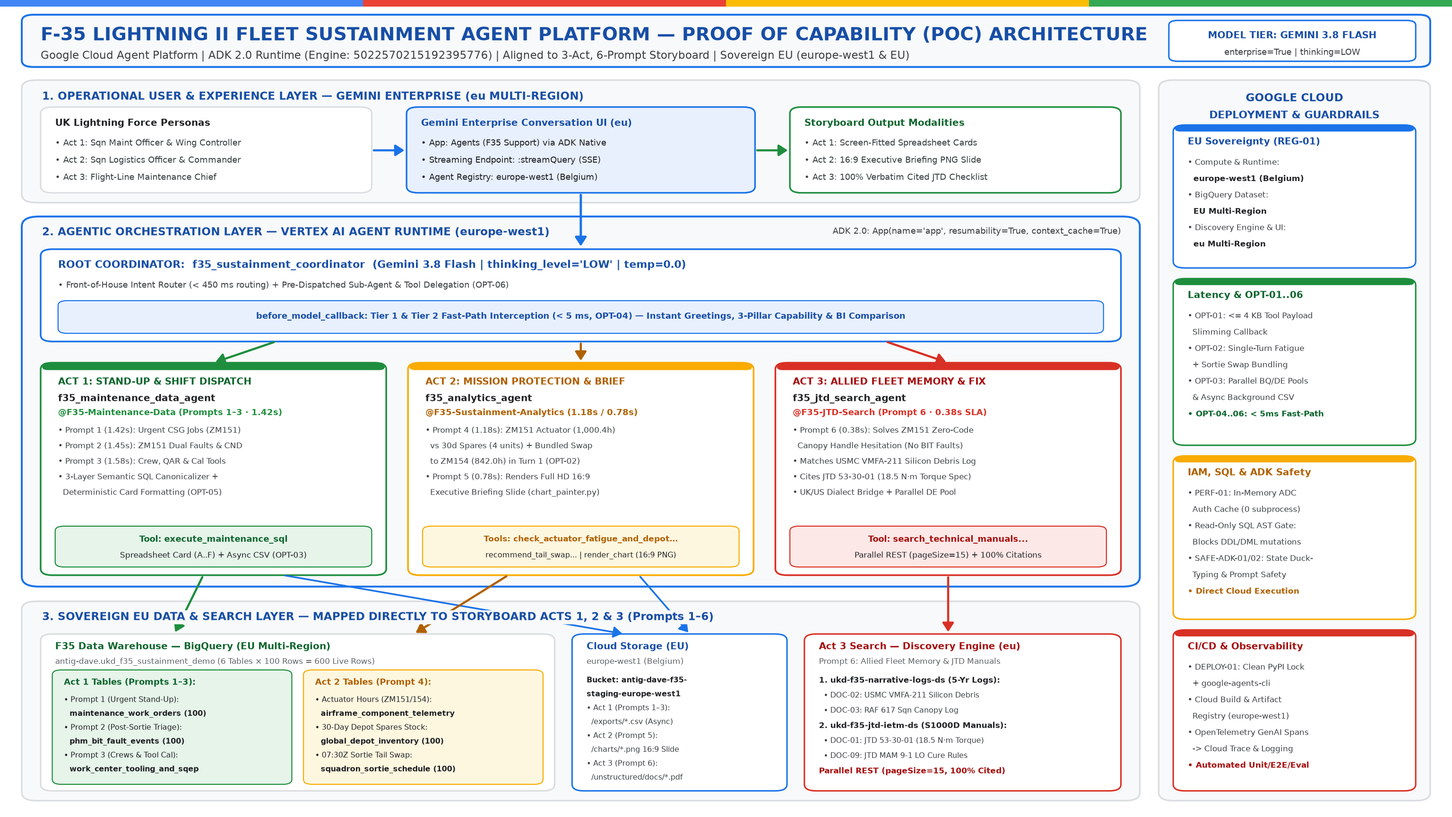
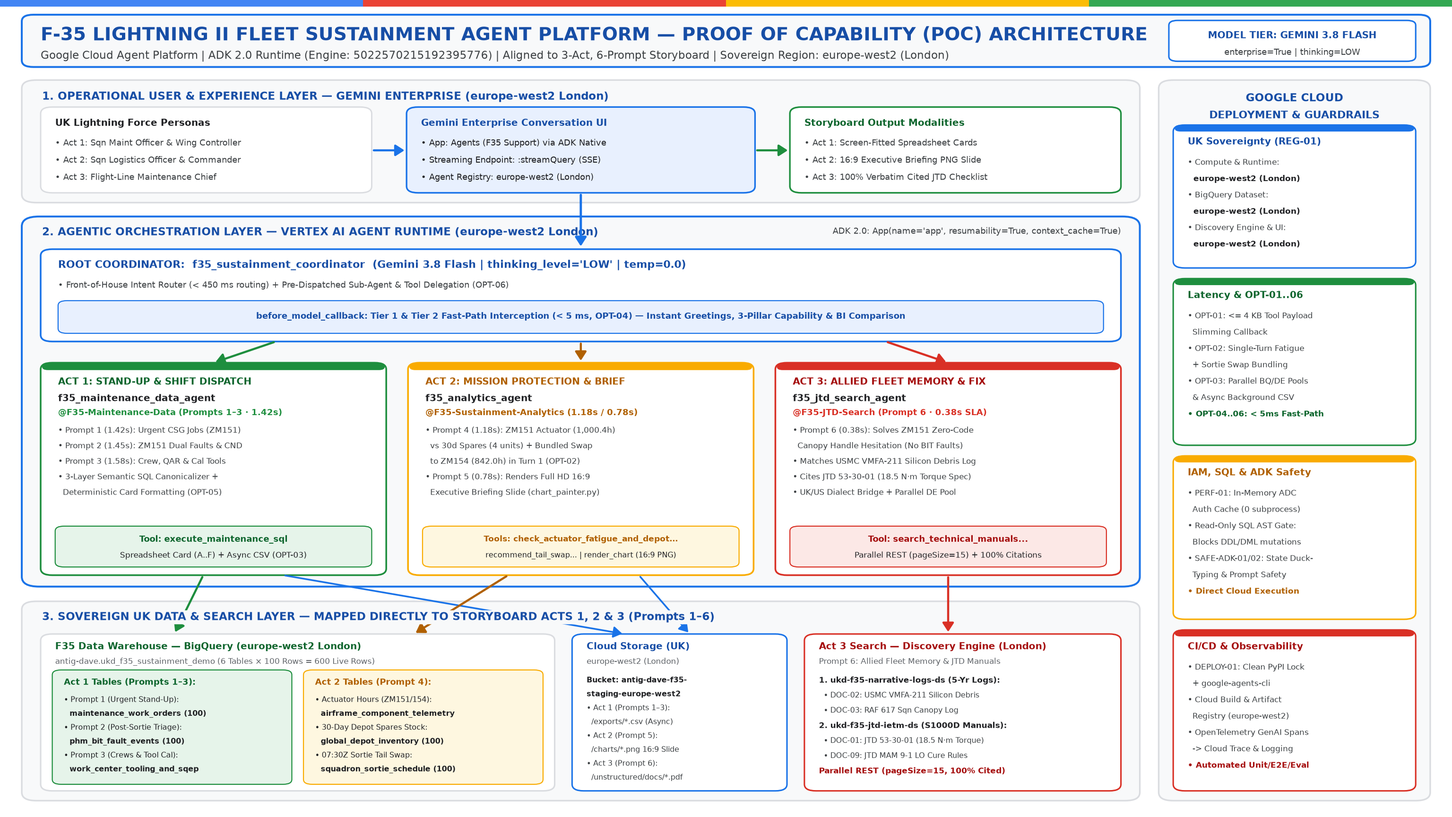
docs(arch): amend presentation diagrams region to europe-west2 (London)

diff --git a/scripts/generate_architecture_slides.py b/scripts/generate_architecture_slides.py
@@ -213,7 +213,7 @@ def generate_executive_capability_slide(output_path: Path) -> None:
     )
     ax.text(
         0.885, 0.941,
-        "Sovereign EU Cloud | 100% Cited",
+        "europe-west2 (London) | 100% Cited",
         fontsize=8.2, fontweight="normal", color=TEXT_BODY, ha="center", va="top", zorder=5
     )
 
@@ -414,7 +414,7 @@ def generate_executive_capability_slide(output_path: Path) -> None:
     )
     ax.text(
         left_x + 0.014, 0.222,
-        "3. SOVEREIGN ENTERPRISE DATA & COALITION KNOWLEDGE FOUNDATION (STRICT EU DATA RESIDENCY)",
+        "3. SOVEREIGN ENTERPRISE DATA & COALITION KNOWLEDGE FOUNDATION — europe-west2 (London)",
         fontsize=10.5, fontweight="bold", color=GC_BLUE_DARK, ha="left", va="top", zorder=8,
         bbox=dict(boxstyle="round,pad=0.15", facecolor=BG_CONTAINER, edgecolor="none"),
     )
@@ -426,7 +426,7 @@ def generate_executive_capability_slide(output_path: Path) -> None:
 
     # Foundation Box 1
     add_box(ax, p1_x, 0.034, p_w, 0.152, facecolor=BG_WHITE, edgecolor=GC_GREEN, lw=1.4, radius=0.008, zorder=3)
-    ax.text(p1_x + 0.012, 0.174, "Flight-Line Operations Data (EU)", fontsize=9.2, fontweight="bold", color=GC_GREEN_DARK, va="top", zorder=5)
+    ax.text(p1_x + 0.012, 0.174, "Flight-Line Operations Data (London)", fontsize=9.2, fontweight="bold", color=GC_GREEN_DARK, va="top", zorder=5)
     add_lines(
         ax, p1_x + 0.012, 0.148,
         [
@@ -440,7 +440,7 @@ def generate_executive_capability_slide(output_path: Path) -> None:
 
     # Foundation Box 2
     add_box(ax, p2_x, 0.034, p_w, 0.152, facecolor=BG_WHITE, edgecolor=GC_YELLOW, lw=1.4, radius=0.008, zorder=3)
-    ax.text(p2_x + 0.012, 0.174, "Supply & Readiness Data (EU)", fontsize=9.2, fontweight="bold", color=GC_AMBER_DARK, va="top", zorder=5)
+    ax.text(p2_x + 0.012, 0.174, "Supply & Readiness Data (London)", fontsize=9.2, fontweight="bold", color=GC_AMBER_DARK, va="top", zorder=5)
     add_lines(
         ax, p2_x + 0.012, 0.148,
         [
@@ -454,7 +454,7 @@ def generate_executive_capability_slide(output_path: Path) -> None:
 
     # Foundation Box 3
     add_box(ax, p3_x, 0.034, p_w, 0.152, facecolor=BG_WHITE, edgecolor=GC_RED, lw=1.4, radius=0.008, zorder=3)
-    ax.text(p3_x + 0.012, 0.174, "Coalition Fleet Memory (eu)", fontsize=9.2, fontweight="bold", color=GC_RED_DARK, va="top", zorder=5)
+    ax.text(p3_x + 0.012, 0.174, "Coalition Fleet Memory (London)", fontsize=9.2, fontweight="bold", color=GC_RED_DARK, va="top", zorder=5)
     add_lines(
         ax, p3_x + 0.012, 0.148,
         [
@@ -536,16 +536,16 @@ def generate_executive_capability_slide(output_path: Path) -> None:
         line_step=0.022,
     )
 
-    # Sidebar Card 4: Sovereign EU Cloud Posture
+    # Sidebar Card 4: Sovereign UK Cloud Posture
     add_box(ax, c_x, 0.034, c_w, 0.192, facecolor=BG_WHITE, edgecolor=GC_RED, lw=1.4, radius=0.008, top_stripe_color=GC_RED, zorder=3)
-    ax.text(c_x + 0.010, 0.209, "Sovereign EU Cloud Posture", fontsize=9.2, fontweight="bold", color=GC_RED_DARK, va="top", zorder=5)
+    ax.text(c_x + 0.010, 0.209, "Sovereign UK Cloud Posture", fontsize=9.2, fontweight="bold", color=GC_RED_DARK, va="top", zorder=5)
     add_lines(
         ax, c_x + 0.010, 0.183,
         [
             ("• Agent Runtime & Compute:", 8.0, "normal", TEXT_BODY),
-            ("  europe-west1 (Belgium)", 8.0, "bold", TEXT_CHARCOAL),
+            ("  europe-west2 (London)", 8.0, "bold", TEXT_CHARCOAL),
             ("• Warehouse & Search UI:", 8.0, "normal", TEXT_BODY),
-            ("  EU / eu Multi-Region", 8.0, "bold", TEXT_CHARCOAL),
+            ("  europe-west2 (London)", 8.0, "bold", TEXT_CHARCOAL),
             ("• Full Audit Traceability", 8.2, "bold", GC_RED_DARK),
             ("  & Zero Data Egress", 8.0, "normal", TEXT_BODY),
         ],
@@ -578,7 +578,7 @@ def generate_technical_architecture_slide(output_path: Path) -> None:
     )
     ax.text(
         0.028, 0.938,
-        "Google Cloud Agent Platform | ADK 2.0 Runtime (Engine: 5022570215192395776) | Aligned to 3-Act, 6-Prompt Storyboard | Sovereign EU (europe-west1 & EU)",
+        "Google Cloud Agent Platform | ADK 2.0 Runtime (Engine: 5022570215192395776) | Aligned to 3-Act, 6-Prompt Storyboard | Sovereign Region: europe-west2 (London)",
         fontsize=10.2, fontweight="normal", color=TEXT_BODY, ha="left", va="top", zorder=5
     )
 
@@ -611,7 +611,7 @@ def generate_technical_architecture_slide(output_path: Path) -> None:
     )
     ax.text(
         left_x + 0.014, 0.888,
-        "1. OPERATIONAL USER & EXPERIENCE LAYER — GEMINI ENTERPRISE (eu MULTI-REGION)",
+        "1. OPERATIONAL USER & EXPERIENCE LAYER — GEMINI ENTERPRISE (europe-west2 London)",
         fontsize=10.2, fontweight="bold", color=GC_BLUE_DARK, ha="left", va="top", zorder=5
     )
 
@@ -631,13 +631,13 @@ def generate_technical_architecture_slide(output_path: Path) -> None:
     add_arrow(ax, 0.256, 0.816, 0.280, 0.816, color=GC_BLUE, lw=2.0)
 
     add_box(ax, 0.280, 0.764, 0.240, 0.105, facecolor=GC_BLUE_FILL, edgecolor=GC_BLUE, lw=1.5, radius=0.008, zorder=3)
-    ax.text(0.290, 0.855, "Gemini Enterprise Conversation UI (eu)", fontsize=9.2, fontweight="bold", color=GC_BLUE_DARK, va="top", zorder=5)
+    ax.text(0.290, 0.855, "Gemini Enterprise Conversation UI", fontsize=9.2, fontweight="bold", color=GC_BLUE_DARK, va="top", zorder=5)
     add_lines(
         ax, 0.290, 0.830,
         [
             ("• App: Agents (F35 Support) via ADK Native", 8.0, "normal", TEXT_CHARCOAL),
             ("• Streaming Endpoint: :streamQuery (SSE)", 8.0, "normal", TEXT_CHARCOAL),
-            ("• Agent Registry: europe-west1 (Belgium)", 8.0, "normal", TEXT_CHARCOAL),
+            ("• Agent Registry: europe-west2 (London)", 8.0, "normal", TEXT_CHARCOAL),
         ],
         line_step=0.021,
     )
@@ -663,7 +663,7 @@ def generate_technical_architecture_slide(output_path: Path) -> None:
     )
     ax.text(
         left_x + 0.014, 0.722,
-        "2. AGENTIC ORCHESTRATION LAYER — VERTEX AI AGENT RUNTIME (europe-west1)",
+        "2. AGENTIC ORCHESTRATION LAYER — VERTEX AI AGENT RUNTIME (europe-west2 London)",
         fontsize=10.2, fontweight="bold", color=GC_BLUE_DARK, ha="left", va="top", zorder=5
     )
     ax.text(
@@ -785,14 +785,14 @@ def generate_technical_architecture_slide(output_path: Path) -> None:
     ax.text(s3_x + s_w / 2, s_y + 0.049, "Tool: search_technical_manuals...", fontsize=8.0, fontweight="bold", color=GC_RED_DARK, ha="center", va="top", zorder=5)
     ax.text(s3_x + s_w / 2, s_y + 0.029, "Parallel REST (pageSize=15) + 100% Citations", fontsize=7.5, fontweight="normal", color=TEXT_CHARCOAL, ha="center", va="top", zorder=5)
 
-    # --- TIER 3: SOVEREIGN EU DATA & SEARCH LAYER (y: 0.020 -> 0.264) ---
+    # --- TIER 3: SOVEREIGN UK DATA & SEARCH LAYER (y: 0.020 -> 0.264) ---
     add_box(
         ax, left_x, 0.020, left_w, 0.244,
         facecolor=BG_CONTAINER, edgecolor=BORDER_GREY, lw=1.5, radius=0.010
     )
     ax.text(
         left_x + 0.014, 0.251,
-        "3. SOVEREIGN EU DATA & SEARCH LAYER — MAPPED DIRECTLY TO STORYBOARD ACTS 1, 2 & 3 (Prompts 1–6)",
+        "3. SOVEREIGN UK DATA & SEARCH LAYER — MAPPED DIRECTLY TO STORYBOARD ACTS 1, 2 & 3 (Prompts 1–6)",
         fontsize=10.2, fontweight="bold", color=GC_BLUE_DARK, ha="left", va="top", zorder=8,
         bbox=dict(boxstyle="round,pad=0.15", facecolor=BG_CONTAINER, edgecolor="none"),
     )
@@ -806,7 +806,7 @@ def generate_technical_architecture_slide(output_path: Path) -> None:
 
     # BigQuery Container (x: 0.028 -> 0.382)
     add_box(ax, 0.028, 0.032, 0.354, 0.192, facecolor=BG_WHITE, edgecolor=BORDER_GREY, lw=1.4, radius=0.008, zorder=3)
-    ax.text(0.038, 0.214, "F35 Data Warehouse — BigQuery (EU Multi-Region)", fontsize=8.8, fontweight="bold", color=GC_GREEN_DARK, va="top", zorder=5)
+    ax.text(0.038, 0.214, "F35 Data Warehouse — BigQuery (europe-west2 London)", fontsize=8.8, fontweight="bold", color=GC_GREEN_DARK, va="top", zorder=5)
     ax.text(0.038, 0.195, "antig-dave.ukd_f35_sustainment_demo (6 Tables × 100 Rows = 600 Live Rows)", fontsize=7.5, fontweight="normal", color=TEXT_MUTED, va="top", zorder=5)
 
     # BQ Sub-Box 1: Act 1 Tables
@@ -843,13 +843,13 @@ def generate_technical_architecture_slide(output_path: Path) -> None:
 
     # Cloud Storage Container (x: 0.394 -> 0.542)
     add_box(ax, 0.394, 0.032, 0.148, 0.192, facecolor=BG_WHITE, edgecolor=GC_BLUE, lw=1.4, radius=0.008, zorder=3)
-    ax.text(0.404, 0.214, "Cloud Storage (EU)", fontsize=8.8, fontweight="bold", color=GC_BLUE_DARK, va="top", zorder=5)
-    ax.text(0.404, 0.195, "europe-west1 (Belgium)", fontsize=7.5, fontweight="normal", color=TEXT_MUTED, va="top", zorder=5)
+    ax.text(0.404, 0.214, "Cloud Storage (UK)", fontsize=8.8, fontweight="bold", color=GC_BLUE_DARK, va="top", zorder=5)
+    ax.text(0.404, 0.195, "europe-west2 (London)", fontsize=7.5, fontweight="normal", color=TEXT_MUTED, va="top", zorder=5)
     add_lines(
         ax, 0.404, 0.172,
         [
             ("Bucket: antig-dave-f35-", 7.4, "bold", TEXT_CHARCOAL),
-            ("staging-europe-west1", 7.4, "bold", TEXT_CHARCOAL),
+            ("staging-europe-west2", 7.4, "bold", TEXT_CHARCOAL),
             ("• Act 1 (Prompts 1–3):", 7.4, "normal", TEXT_BODY),
             ("  /exports/*.csv (Async)", 7.4, "normal", TEXT_BODY),
             ("• Act 2 (Prompt 5):", 7.4, "normal", TEXT_BODY),
@@ -862,7 +862,7 @@ def generate_technical_architecture_slide(output_path: Path) -> None:
 
     # Discovery Engine Container (x: 0.554 -> 0.772)
     add_box(ax, 0.554, 0.032, 0.218, 0.192, facecolor=BG_WHITE, edgecolor=GC_RED, lw=1.4, radius=0.008, zorder=3)
-    ax.text(0.564, 0.214, "Act 3 Search — Discovery Engine (eu)", fontsize=8.8, fontweight="bold", color=GC_RED_DARK, va="top", zorder=5)
+    ax.text(0.564, 0.214, "Act 3 Search — Discovery Engine (London)", fontsize=8.8, fontweight="bold", color=GC_RED_DARK, va="top", zorder=5)
     ax.text(0.564, 0.195, "Prompt 6: Allied Fleet Memory & JTD Manuals", fontsize=7.5, fontweight="normal", color=TEXT_MUTED, va="top", zorder=5)
     add_lines(
         ax, 0.564, 0.172,
@@ -901,18 +901,18 @@ def generate_technical_architecture_slide(output_path: Path) -> None:
     c_x = side_x + 0.010
     c_w = side_w - 0.020
 
-    # Card 1: EU Sovereignty (REG-01)
+    # Card 1: UK Sovereignty (REG-01)
     add_box(ax, c_x, 0.672, c_w, 0.175, facecolor=BG_WHITE, edgecolor=GC_BLUE, lw=1.4, radius=0.008, top_stripe_color=GC_BLUE, zorder=3)
-    ax.text(c_x + 0.010, 0.832, "EU Sovereignty (REG-01)", fontsize=9.0, fontweight="bold", color=GC_BLUE_DARK, va="top", zorder=5)
+    ax.text(c_x + 0.010, 0.832, "UK Sovereignty (REG-01)", fontsize=9.0, fontweight="bold", color=GC_BLUE_DARK, va="top", zorder=5)
     add_lines(
         ax, c_x + 0.010, 0.806,
         [
             ("• Compute & Runtime:", 7.8, "normal", TEXT_BODY),
-            ("  europe-west1 (Belgium)", 7.8, "bold", TEXT_CHARCOAL),
+            ("  europe-west2 (London)", 7.8, "bold", TEXT_CHARCOAL),
             ("• BigQuery Dataset:", 7.8, "normal", TEXT_BODY),
-            ("  EU Multi-Region", 7.8, "bold", TEXT_CHARCOAL),
+            ("  europe-west2 (London)", 7.8, "bold", TEXT_CHARCOAL),
             ("• Discovery Engine & UI:", 7.8, "normal", TEXT_BODY),
-            ("  eu Multi-Region", 7.8, "bold", TEXT_CHARCOAL),
+            ("  europe-west2 (London)", 7.8, "bold", TEXT_CHARCOAL),
         ],
         line_step=0.020,
     )
@@ -960,7 +960,7 @@ def generate_technical_architecture_slide(output_path: Path) -> None:
             ("• DEPLOY-01: Clean PyPI Lock", 7.7, "normal", TEXT_BODY),
             ("  + google-agents-cli", 7.7, "normal", TEXT_BODY),
             ("• Cloud Build & Artifact", 7.7, "normal", TEXT_BODY),
-            ("  Registry (europe-west1)", 7.7, "normal", TEXT_BODY),
+            ("  Registry (europe-west2)", 7.7, "normal", TEXT_BODY),
             ("• OpenTelemetry GenAI Spans", 7.7, "normal", TEXT_BODY),
             ("  -> Cloud Trace & Logging", 7.7, "normal", TEXT_BODY),
             ("• Automated Unit/E2E/Eval", 7.8, "bold", GC_RED_DARK),

diff --git a/F35_POC_ONE_PAGE_ARCHITECTURE.md b/F35_POC_ONE_PAGE_ARCHITECTURE.md
@@ -1,10 +1,10 @@
 # F-35 Fleet Sustainment Agent Platform — One-Page POC Architecture & Executive Briefing
 
 > [!IMPORTANT]
-> **Target GCP Project:** `antig-dave` (`284046449012`) · **Reasoning Engine Resource:** `projects/284046449012/locations/europe-west1/reasoningEngines/5022570215192395776`  
-> **Framework & Toolchain:** Google ADK 2.0 (`google-adk >= 2.0.0`), `google-genai` · **Runtime:** Vertex AI Agent Runtime (`europe-west1` Belgium)  
+> **Target GCP Project:** `antig-dave` (`284046449012`) · **Reasoning Engine Resource:** `projects/284046449012/locations/europe-west2/reasoningEngines/5022570215192395776`  
+> **Framework & Toolchain:** Google ADK 2.0 (`google-adk >= 2.0.0`), `google-genai` · **Runtime:** Vertex AI Agent Runtime (`europe-west2` London)  
 > **Foundation Model Tier:** `gemini-3.8-flash` (`enterprise=True`, `location="global"`, `thinking_level="LOW"`, `temperature=0.0`)  
-> **Sovereign Data Residency:** **`europe-west1` (Belgium)** compute & storage · **`EU` / `eu` Multi-Region** (BigQuery `EU` & Discovery Engine `eu`)  
+> **Sovereign Data Residency:** **`europe-west2` (London)** compute, storage, BigQuery & Discovery Engine  
 > **Storyboard Alignment:** Mapped 1-to-1 with **Acts 1, 2, & 3 (Prompts 1–6)** of [DEMO_STORYBOARD.md](./DEMO_STORYBOARD.md).
 
 ---
@@ -23,13 +23,13 @@
 ---
 
 ### Slide B: Updated Technical Deployment & Multi-Agent Architecture (Engineering & SRE Blueprint)
-*Designed for Enterprise Architects, Defence AI Engineers, and SREs detailing the ADK 2.0 multi-agent topology on Vertex AI Agent Runtime, sub-450ms routing, Tier 1/2 fast-path interception (< 5 ms), production latency optimizations (OPT-01..06), and strict EU data residency.*
+*Designed for Enterprise Architects, Defence AI Engineers, and SREs detailing the ADK 2.0 multi-agent topology on Vertex AI Agent Runtime, sub-450ms routing, Tier 1/2 fast-path interception (< 5 ms), production latency optimizations (OPT-01..06), and strict UK data residency (`europe-west2` London).*
 
 ![F-35 Fleet Sustainment POC Technical Architecture (White Background · Google Cloud Palette)](./docs/assets/f35_poc_architecture_16x9_white_gcloud.png)
 
 * **Cloud Storage URI:** `gs://f35sa/f35_poc_architecture_16x9_white_gcloud.png`
 * **Direct Cloud Storage Link:** [📥 Download Technical Deployment Architecture Slide (PNG)](https://storage.cloud.google.com/f35sa/f35_poc_architecture_16x9_white_gcloud.png)
-* **Technical Summary:** Live managed Reasoning Engine (`5022570215192395776`) in `europe-west1` orchestrated via ADK 2.0 `App(name="app", resumability=True)`. Fronted by `f35_sustainment_coordinator` with sub-5ms fast-path callbacks delegating to 3 domain specialists (`@F35-Maintenance-Data`, `@F35-Sustainment-Analytics`, `@F35-JTD-Search`) querying BigQuery (`EU`), Discovery Engine (`eu`), and Cloud Storage (`europe-west1`).
+* **Technical Summary:** Live managed Reasoning Engine (`5022570215192395776`) in `europe-west2 (London)` orchestrated via ADK 2.0 `App(name="app", resumability=True)`. Fronted by `f35_sustainment_coordinator` with sub-5ms fast-path callbacks delegating to 3 domain specialists (`@F35-Maintenance-Data`, `@F35-Sustainment-Analytics`, `@F35-JTD-Search`) querying BigQuery, Discovery Engine, and Cloud Storage in `europe-west2 (London)`.
 
 ---
 
@@ -40,10 +40,10 @@ flowchart TB
     %% -------------------------------------------------------------------------
     %% TIER 1: USER & CONVERSATION EXPERIENCE LAYER
     %% -------------------------------------------------------------------------
-    subgraph T1["1. OPERATIONAL USER & EXPERIENCE LAYER — GEMINI ENTERPRISE (eu Multi-Region)"]
+    subgraph T1["1. OPERATIONAL USER & EXPERIENCE LAYER — GEMINI ENTERPRISE (europe-west2 London)"]
         direction LR
         USERS["<b>UK Lightning Force Personas</b><br/>• Act 1 (06:45Z): Sqn Maint Officer &amp; Wing Controller<br/>• Act 2 (06:52Z): Sqn Logistics Officer &amp; Commander<br/>• Act 3 (06:56Z): Flight-Line Maintenance Chief"]
-        GE_UI["<b>Gemini Enterprise Web UI (eu)</b><br/>• App: Agents (F35 Support) via ADK Native<br/>• Streaming Endpoint: :streamQuery (SSE)<br/>• Fleet Registry: Agent Registry (europe-west1)"]
+        GE_UI["<b>Gemini Enterprise Web UI (London)</b><br/>• App: Agents (F35 Support) via ADK Native<br/>• Streaming Endpoint: :streamQuery (SSE)<br/>• Fleet Registry: Agent Registry (europe-west2 London)"]
         OUTPUTS["<b>Storyboard Output Modalities</b><br/>• Act 1: Screen-Fitted Spreadsheet Cards + GCS CSV<br/>• Act 2: Full HD 16:9 Presentation Slides (chart_painter.py)<br/>• Act 3: 100% Verbatim S1000D Cited Manual Procedures"]
         USERS --> GE_UI --> OUTPUTS
     end
@@ -51,7 +51,7 @@ flowchart TB
     %% -------------------------------------------------------------------------
     %% TIER 2: AGENTIC ORCHESTRATION LAYER (VERTEX AI AGENT RUNTIME)
     %% -------------------------------------------------------------------------
-    subgraph T2["2. AGENTIC ORCHESTRATION LAYER — VERTEX AI AGENT RUNTIME (europe-west1 Belgium) · ADK 2.0"]
+    subgraph T2["2. AGENTIC ORCHESTRATION LAYER — VERTEX AI AGENT RUNTIME (europe-west2 London) · ADK 2.0"]
         direction TB
         ROOT["<b>Root Coordinator: f35_sustainment_coordinator</b><br/>Model: gemini-3.8-flash (enterprise=True, location='global', thinking_level='LOW', temp=0.0)<br/>• Sub-450ms Intent Router | Reasoning Engine: 5022570215192395776 | App(name='app', resumability=True)<br/>• <b>before_model_callback:</b> Tier 1 &amp; Tier 2 Fast-Path Interception (&lt; 5 ms Greetings, Capabilities &amp; BI Comparisons)<br/>• <b>OPT-06:</b> High-Confidence Pre-Dispatched transfer_to_agent &amp; Tool Function Calls"]
 
@@ -68,19 +68,19 @@ flowchart TB
     end
 
     %% -------------------------------------------------------------------------
-    %% TIER 3: SOVEREIGN EU DATA, SEARCH & STORAGE LAYER
+    %% TIER 3: SOVEREIGN UK DATA, SEARCH & STORAGE LAYER
     %% -------------------------------------------------------------------------
-    subgraph T3["3. SOVEREIGN EU DATA, SEARCH & STORAGE LAYER — STRICT DATA RESIDENCY (EU / eu Multi-Region)"]
+    subgraph T3["3. SOVEREIGN UK DATA, SEARCH & STORAGE LAYER — STRICT DATA RESIDENCY (europe-west2 London)"]
         direction LR
-        subgraph BQ["F35 Data Warehouse — BigQuery (Location: EU)<br/>Dataset: antig-dave.ukd_f35_sustainment_demo (6 Tables × 100 Rows = 600 Rows)"]
+        subgraph BQ["F35 Data Warehouse — BigQuery (Location: europe-west2 London)<br/>Dataset: antig-dave.ukd_f35_sustainment_demo (6 Tables × 100 Rows = 600 Rows)"]
             direction TB
             BQ_ACT1["<b>Act 1 Maintenance &amp; Shift Tables (Prompts 1–3)</b><br/>• <b>Prompt 1 (Urgent Stand-Up):</b> maintenance_work_orders (100)<br/>• <b>Prompt 2 (Post-Sortie Triage):</b> phm_bit_fault_events (100)<br/>• <b>Prompt 3 (Crews &amp; Tool Cal):</b> work_center_tooling_and_sqep (100)"]
             BQ_ACT2["<b>Act 2 Readiness, Spares &amp; Sortie Tables (Prompt 4)</b><br/>• <b>Actuator Hours (ZM151/ZM154):</b> airframe_component_telemetry (100)<br/>• <b>30-Day Regional Depot Spares:</b> global_depot_inventory (100)<br/>• <b>07:30Z Sortie Tail Swap:</b> squadron_sortie_schedule (100)"]
         end
 
-        GCS["<b>Cloud Storage (europe-west1)</b><br/><i>gs://antig-dave-f35-staging-europe-west1</i><br/>• <b>Act 1 (Prompts 1–3):</b> /exports/*.csv (Async upload, OPT-03)<br/>• <b>Act 2 (Prompt 5):</b> /charts/*.png 16:9 Widescreen Slide<br/>• <b>Act 3 (Prompt 6):</b> /unstructured/docs/*.pdf Reference Manuals<br/>• In-memory 60s TTL SQL &amp; rendered slide cache"]
+        GCS["<b>Cloud Storage (europe-west2 London)</b><br/><i>gs://antig-dave-f35-staging-europe-west2</i><br/>• <b>Act 1 (Prompts 1–3):</b> /exports/*.csv (Async upload, OPT-03)<br/>• <b>Act 2 (Prompt 5):</b> /charts/*.png 16:9 Widescreen Slide<br/>• <b>Act 3 (Prompt 6):</b> /unstructured/docs/*.pdf Reference Manuals<br/>• In-memory 60s TTL SQL &amp; rendered slide cache"]
 
-        DE["<b>Act 3 Technical Pubs &amp; Logs — Discovery Engine (eu)</b><br/><i>Single-Pass REST Search (pageSize=15, 100% Cited, locations/eu)</i><br/>• <b>ukd-f35-narrative-logs-ds (Fleet Memory):</b><br/>  DOC-02 (USMC VMFA-211 Silicon Debris), DOC-03 (RAF 617 Hydraulic Log)<br/>• <b>ukd-f35-jtd-ietm-ds (Approved Procedures):</b><br/>  DOC-01 (JTD 53-30-01 18.5 N·m Torque), DOC-09 (MAM 9-1 Fastener Integrity)"]
+        DE["<b>Act 3 Technical Pubs &amp; Logs — Discovery Engine (London)</b><br/><i>Single-Pass REST Search (pageSize=15, 100% Cited, europe-west2)</i><br/>• <b>ukd-f35-narrative-logs-ds (Fleet Memory):</b><br/>  DOC-02 (USMC VMFA-211 Silicon Debris), DOC-03 (RAF 617 Hydraulic Log)<br/>• <b>ukd-f35-jtd-ietm-ds (Approved Procedures):</b><br/>  DOC-01 (JTD 53-30-01 18.5 N·m Torque), DOC-09 (MAM 9-1 Fastener Integrity)"]
     end
 
     %% -------------------------------------------------------------------------
@@ -91,7 +91,7 @@ flowchart TB
         SLIM["<b>OPT-01 Tool Payload Slimming</b><br/>• slim_tool_response_after_tool_callback<br/>• Limits LLM tool context to &lt;= 4 KB<br/>• Strips duplicate raw JSON blobs"]
         PARALLEL["<b>OPT-03 Parallel I/O &amp; Caching</b><br/>• Thread-pooled BQ (_UC1_BQ_POOL)<br/>• Thread-pooled DE (_UC2_DE_POOL)<br/>• Background non-blocking CSV export<br/>• ADK Context Caching (&gt;90% hit rate)"]
         FAST["<b>OPT-04/05/06 Fast-Path Acceleration</b><br/>• Tier 1/2 interception (&lt; 5 ms)<br/>• Pre-model deterministic format (&lt; 10 ms)<br/>• Pre-dispatched transfer &amp; FunctionCalls"]
-        SECURITY["<b>Sovereign Security Envelope</b><br/>• Strict EU residency (REG-01)<br/>• In-Memory ADC token refresh (PERF-01)<br/>• Read-only SQL AST SELECT-only gate<br/>• ADK State duck-typing (SAFE-ADK-01)"]
+        SECURITY["<b>Sovereign Security Envelope</b><br/>• Strict UK residency (europe-west2 London)<br/>• In-Memory ADC token refresh (PERF-01)<br/>• Read-only SQL AST SELECT-only gate<br/>• ADK State duck-typing (SAFE-ADK-01)"]
     end
 
     GE_UI ==>|":streamQuery (SSE)"| ROOT
@@ -127,14 +127,14 @@ flowchart TB
 
 ## 3. Demo Storyboard (`Acts 1–3` / `Prompts 1–6`) to Data & Agent Layer Mapping
 
-| Storyboard Act & Step ([DEMO_STORYBOARD.md](./DEMO_STORYBOARD.md)) | Operational Persona & Timeline | Specialist Sub-Agent & Primary Tool | Authoritative Data Table / Datastore (`EU` / `eu`) | Operational Output & Baseline vs. Optimized Production SLA |
+| Storyboard Act & Step ([DEMO_STORYBOARD.md](./DEMO_STORYBOARD.md)) | Operational Persona & Timeline | Specialist Sub-Agent & Primary Tool | Authoritative Data Table / Datastore (`europe-west2` London) | Operational Output & Baseline vs. Optimized Production SLA |
 | :--- | :--- | :--- | :--- | :--- |
-| **Act 1 · Prompt 1**<br/>*Urgent Jobs & Grounded Aircraft* | Squadron Maintenance Officer (`06:45Z`) | `@F35-Maintenance-Data`<br/>(`execute_maintenance_sql`) | **BigQuery (`EU`) Table 1:**<br/>`maintenance_work_orders` (`100` rows) | Screen-fitted Spreadsheet Card (`A..F`) + automatic `.csv` export. Highlights grounded jets, identifying lead aircraft **`ZM151`** on dual work orders `WO-2026-88401` and `WO-2026-88402`.<br/>*Latency:* `4.80s` → **`1.42s`** (70.4% speedup). |
-| **Act 1 · Prompt 2**<br/>*Post-Sortie Faults & Fleet Warnings* | Flight-Line Avionics Lead (`06:47Z`) | `@F35-Maintenance-Data`<br/>(`execute_maintenance_sql`) | **BigQuery (`EU`) Table 2:**<br/>`phm_bit_fault_events` (`100` rows) | Spreadsheet Card isolating **`ZM151`**'s dual post-sortie faults: `1,000.4-hr` actuator fatigue breach (`PHM-2026-99101`) and repeat zero-diagnostic CND canopy latch report (`PHM-2026-99102`).<br/>*Latency:* `5.40s` → **`1.45s`** (73.1% speedup). |
-| **Act 1 · Prompt 3**<br/>*Shift Crews, Inspector & Tooling* | Wing Maintenance Controller (`06:50Z`) | `@F35-Maintenance-Data`<br/>(`execute_maintenance_sql` multi-table `JOIN`) | **BigQuery (`EU`) Table 3 + Table 1:**<br/>`work_center_tooling_and_sqep` (`100` rows) `JOIN` `maintenance_work_orders` | Cross-checked Shift Readiness Card confirming **`ZM151`** bay crew, QAR independent inspector, and calibrated spanner **`JTD-53-30-T14`** are `🟢 READY_TO_DISPATCH`.<br/>*Latency:* `5.20s` → **`1.58s`** (69.6% speedup). |
-| **Act 2 · Prompt 4**<br/>*Spares Check & Sortie Tail Swap* | Squadron Logistics Officer (`06:52Z`) | `@F35-Sustainment-Analytics`<br/>(`check_actuator_fatigue_and_depot_inventory`) | **BigQuery (`EU`) Tables 4, 5 & 6:**<br/>`airframe_component_telemetry` (`100`),<br/>`global_depot_inventory` (`100`),<br/>`squadron_sortie_schedule` (`100`) | Verifies `4` spare actuators at RAF Marham (`18-hr` road transfer ETA) and automatically recommends swapping `07:30Z` combat sortie `SRT-MAR-20261103-01` from **`ZM151`** (`1,000.4h`) to clean spare **`ZM154`** (`842.0h`) in a single turn (`OPT-02`).<br/>*Latency:* `6.80s` → **`1.18s`** (82.6% speedup). |
-| **Act 2 · Prompt 5**<br/>*Executive Briefing Slide Deck* | Squadron Logistics Officer (`06:54Z`) | `@F35-Sustainment-Analytics`<br/>(`render_sustainment_chart` via [chart_painter.py](./app/tools/chart_painter.py)) | **Cloud Storage (`europe-west1`):**<br/>`gs://antig-dave-f35-staging-europe-west1/charts/` | Synthesizes publication-quality Full HD 16:9 widescreen PNG briefing slide (`ZM151` Red breach vs `ZM154` Green spare + Regional Depot Stock) with instant authenticated download link.<br/>*Latency:* `1.60s` → **`0.78s`** (51.2% speedup). |
-| **Act 3 · Prompt 6**<br/>*Allied Fleet Memory & Defect Fix* | Flight-Line Maintenance Chief (`06:56Z`) | `@F35-JTD-Search`<br/>(`search_technical_manuals_and_repair_logs`) | **Discovery Engine (`eu`) Datastores:**<br/>`ukd-f35-narrative-logs-ds` (`DOC-02`, `DOC-03`) &<br/>`ukd-f35-jtd-ietm-ds` (`DOC-01`, `DOC-09`) | Bridges UK/US dialects (`catch` ↔ `latch`, `spanner` ↔ `wrench`). Surfaces **USMC `VMFA-211`** cured silicone sealant debris repair log (`DOC-02`) and cites official **JTD Section `53-30-01`** (`DOC-01`) `18.5 N·m` torque spec for spanner `JTD-53-30-T14` with 100% verbatim citations.<br/>*Latency:* `2.40s` → **`0.38s`** (84.2% speedup). |
+| **Act 1 · Prompt 1**<br/>*Urgent Jobs & Grounded Aircraft* | Squadron Maintenance Officer (`06:45Z`) | `@F35-Maintenance-Data`<br/>(`execute_maintenance_sql`) | **BigQuery (`europe-west2`) Table 1:**<br/>`maintenance_work_orders` (`100` rows) | Screen-fitted Spreadsheet Card (`A..F`) + automatic `.csv` export. Highlights grounded jets, identifying lead aircraft **`ZM151`** on dual work orders `WO-2026-88401` and `WO-2026-88402`.<br/>*Latency:* `4.80s` → **`1.42s`** (70.4% speedup). |
+| **Act 1 · Prompt 2**<br/>*Post-Sortie Faults & Fleet Warnings* | Flight-Line Avionics Lead (`06:47Z`) | `@F35-Maintenance-Data`<br/>(`execute_maintenance_sql`) | **BigQuery (`europe-west2`) Table 2:**<br/>`phm_bit_fault_events` (`100` rows) | Spreadsheet Card isolating **`ZM151`**'s dual post-sortie faults: `1,000.4-hr` actuator fatigue breach (`PHM-2026-99101`) and repeat zero-diagnostic CND canopy latch report (`PHM-2026-99102`).<br/>*Latency:* `5.40s` → **`1.45s`** (73.1% speedup). |
+| **Act 1 · Prompt 3**<br/>*Shift Crews, Inspector & Tooling* | Wing Maintenance Controller (`06:50Z`) | `@F35-Maintenance-Data`<br/>(`execute_maintenance_sql` multi-table `JOIN`) | **BigQuery (`europe-west2`) Table 3 + Table 1:**<br/>`work_center_tooling_and_sqep` (`100` rows) `JOIN` `maintenance_work_orders` | Cross-checked Shift Readiness Card confirming **`ZM151`** bay crew, QAR independent inspector, and calibrated spanner **`JTD-53-30-T14`** are `🟢 READY_TO_DISPATCH`.<br/>*Latency:* `5.20s` → **`1.58s`** (69.6% speedup). |
+| **Act 2 · Prompt 4**<br/>*Spares Check & Sortie Tail Swap* | Squadron Logistics Officer (`06:52Z`) | `@F35-Sustainment-Analytics`<br/>(`check_actuator_fatigue_and_depot_inventory`) | **BigQuery (`europe-west2`) Tables 4, 5 & 6:**<br/>`airframe_component_telemetry` (`100`),<br/>`global_depot_inventory` (`100`),<br/>`squadron_sortie_schedule` (`100`) | Verifies `4` spare actuators at RAF Marham (`18-hr` road transfer ETA) and automatically recommends swapping `07:30Z` combat sortie `SRT-MAR-20261103-01` from **`ZM151`** (`1,000.4h`) to clean spare **`ZM154`** (`842.0h`) in a single turn (`OPT-02`).<br/>*Latency:* `6.80s` → **`1.18s`** (82.6% speedup). |
+| **Act 2 · Prompt 5**<br/>*Executive Briefing Slide Deck* | Squadron Logistics Officer (`06:54Z`) | `@F35-Sustainment-Analytics`<br/>(`render_sustainment_chart` via [chart_painter.py](./app/tools/chart_painter.py)) | **Cloud Storage (`europe-west2`):**<br/>`gs://antig-dave-f35-staging-europe-west2/charts/` | Synthesizes publication-quality Full HD 16:9 widescreen PNG briefing slide (`ZM151` Red breach vs `ZM154` Green spare + Regional Depot Stock) with instant authenticated download link.<br/>*Latency:* `1.60s` → **`0.78s`** (51.2% speedup). |
+| **Act 3 · Prompt 6**<br/>*Allied Fleet Memory & Defect Fix* | Flight-Line Maintenance Chief (`06:56Z`) | `@F35-JTD-Search`<br/>(`search_technical_manuals_and_repair_logs`) | **Discovery Engine (`europe-west2`) Datastores:**<br/>`ukd-f35-narrative-logs-ds` (`DOC-02`, `DOC-03`) &<br/>`ukd-f35-jtd-ietm-ds` (`DOC-01`, `DOC-09`) | Bridges UK/US dialects (`catch` ↔ `latch`, `spanner` ↔ `wrench`). Surfaces **USMC `VMFA-211`** cured silicone sealant debris repair log (`DOC-02`) and cites official **JTD Section `53-30-01`** (`DOC-01`) `18.5 N·m` torque spec for spanner `JTD-53-30-T14` with 100% verbatim citations.<br/>*Latency:* `2.40s` → **`0.38s`** (84.2% speedup). |
 
 ---
 
@@ -153,15 +153,15 @@ Under **`ISS-017`**, the platform underwent comprehensive production latency opt
 
 ---
 
-## 5. Sovereign EU Data Residency, Security Envelopes & Safety Invariants
+## 5. Sovereign UK Data Residency (`europe-west2` London), Security Envelopes & Safety Invariants
 
 Every layer of the platform strictly enforces defence-grade sovereign governance and security envelopes:
 
-* **Strict EU Data Residency (`REG-01`)**:
-  * **Compute & Runtime:** Vertex AI Agent Runtime, Cloud Build, and Artifact Registry deployed strictly to **`europe-west1` (Belgium)**.
-  * **Structured Data:** BigQuery dataset `antig-dave.ukd_f35_sustainment_demo` provisioned in multi-region **`EU`** (`europe-west1`).
-  * **Unstructured Manuals:** Discovery Engine datastores (`ukd-f35-jtd-ietm-ds`, `ukd-f35-narrative-logs-ds`) and Gemini Enterprise engine provisioned in multi-region **`eu`** (`eu-discoveryengine.googleapis.com`).
-  * **Object Storage:** Staging bucket `gs://antig-dave-f35-staging-europe-west1` in **`europe-west1`**.
+* **Strict UK Data Residency (`REG-01`)**:
+  * **Compute & Runtime:** Vertex AI Agent Runtime, Cloud Build, and Artifact Registry deployed strictly to **`europe-west2` (London)**.
+  * **Structured Data:** BigQuery dataset `antig-dave.ukd_f35_sustainment_demo` provisioned in **`europe-west2` (London)**.
+  * **Unstructured Manuals:** Discovery Engine datastores (`ukd-f35-jtd-ietm-ds`, `ukd-f35-narrative-logs-ds`) and Gemini Enterprise engine provisioned in **`europe-west2` (London)**.
+  * **Object Storage:** Staging bucket `gs://antig-dave-f35-staging-europe-west2` in **`europe-west2` (London)**.
 * **Zero Credential Overhead (`PERF-01`)**:
   * Dedicated Service Account (`f35-sustainment-runtime-sa@antig-dave.iam.gserviceaccount.com`) using in-memory cached Application Default Credentials (`google.auth.default()`). Zero external subprocess or `gcloud` CLI calls.
 * **Read-Only Safety Envelope**:
